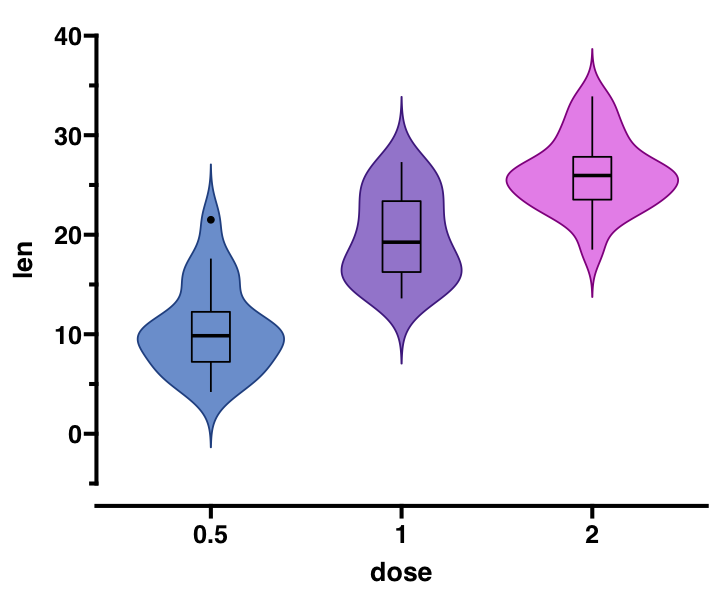
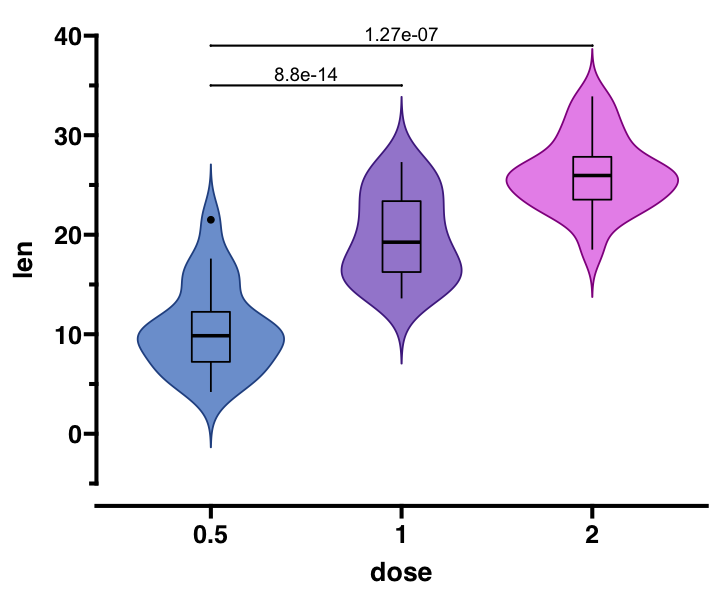
Minor updates to README

Changed region(s): [[0.3056, 0.03, 0.825, 0.09], [0.3056, 0.12, 0.55, 0.15]]

diff --git a/README.md b/README.md
@@ -9,6 +9,8 @@
 status](https://github.com/csdaw/ggprism/workflows/R-CMD-check/badge.svg)](https://github.com/csdaw/ggprism/actions)
 [![Codecov test
 coverage](https://codecov.io/gh/csdaw/ggprism/branch/master/graph/badge.svg)](https://codecov.io/gh/csdaw/ggprism?branch=master)
+[![Website
+https://csdaw.github.io/ggprism](https://img.shields.io/website-up-down-green-red/https/csdaw.github.io/ggprism.svg)](https://csdaw.github.io/ggprism/)
 <!-- badges: end -->
 
 The `ggprism` package provides various themes, palettes, and other
@@ -17,7 +19,7 @@ Prism’* look.
 
 ## Install
 
-Install the development version from github.
+Install the development version from GitHub.
 
 ``` r
 remotes::install_github("csdaw/ggprism")
@@ -25,18 +27,29 @@ remotes::install_github("csdaw/ggprism")
 
 ## How to Use
 
-See the Getting Started page for a quick overview of `ggprism` features.
-Detailed examples and instructions can be found below and on the
-`ggprism` website.
+See the [Getting
+Started](https://csdaw.github.io/ggprism/articles/ggprism.html) page for
+a quick overview of `ggprism` features. Detailed examples and
+instructions can be found below and on the [`ggprism`
+website](https://csdaw.github.io/ggprism/).
 
 ``` r
+library(ggplot2)
+library(ggprism)
+
 tg <- ToothGrowth
 tg$dose <- as.factor(tg$dose)
 
-base <- ggplot(tg, aes(x = dose, y = len, colour = dose, fill = dose)) + 
-  geom_violin(trim = FALSE) + 
-  geom_boxplot(width = 0.2, colour = "black") + 
+base <- ggplot(tg, aes(x = dose, y = len)) + 
+  geom_violin(aes(colour = dose, fill = dose), trim = FALSE) + 
+  geom_boxplot(aes(fill = dose), width = 0.2, colour = "black") + 
   scale_y_continuous(limits = c(-5, 40))
+
+p_vals <- tibble::tribble(
+  ~group1, ~group2, ~p.adj,   ~y.position,
+  "0.5",   "1",     8.80e-14, 35,
+  "0.5",   "2",     1.27e-7,  39
+)
 ```
 
 ``` r
@@ -45,22 +58,29 @@ base
 base + 
   scale_color_prism("floral") + 
   scale_fill_prism("floral") + 
-  theme_prism(base_size = 16) + 
   guides(y = "prism_offset_minor") + 
-  theme(legend.position = "none")
+  theme_prism(base_size = 16) + 
+  theme(legend.position = "none") + 
+  add_pvalue(p_vals, label = "p.adj", tip.length = 0, label.size = 4)
 ```
 
 <img src="man/figures/README-ex-1.png" width="400" /><img src="man/figures/README-ex-2.png" width="400" />
 
 ## Feedback and Contributions
 
-Any feedback, issues, suggestions, and contributions are welcome and
-should be shared via [Github
-issues](https://github.com/csdaw/ggprism/issues). Bug reports should be
-submitted with a minimal reproducible example, e.g. using the
+Any feedback, questions, and suggestions are welcome and should be
+shared via [GitHub
+discussions](https://github.com/csdaw/ggprism/discussions).
+
+Bug reports should be submitted via [GitHub
+issues](https://github.com/csdaw/ggprism/issues) with a minimal
+reproducible example, e.g. using the
 [`reprex`](https://reprex.tidyverse.org) package.
 
-Pull requests for contributions should be made against the `dev` branch.
+Contributions to `ggprism` are also welcome and pull requires should
+also be submitted via [GitHub
+issues](https://github.com/csdaw/ggprism/issues). Please **fork** this
+repository and **create a new branch** to develop your contribution in.
 Some ways to contribute might include:
 
 -   Updates and corrections to documentation
@@ -69,6 +89,9 @@ Some ways to contribute might include:
 -   New functions with associated documentation, examples, and tests
 
 ## Cite
+
+I would be very grateful if you could cite this package if you use it in
+your publication.
 
 Charlotte Dawson (2021), *ggprism: A ggplot2 extension inspired by
 GraphPad Prism*. R package version 0.0.0.9000,
